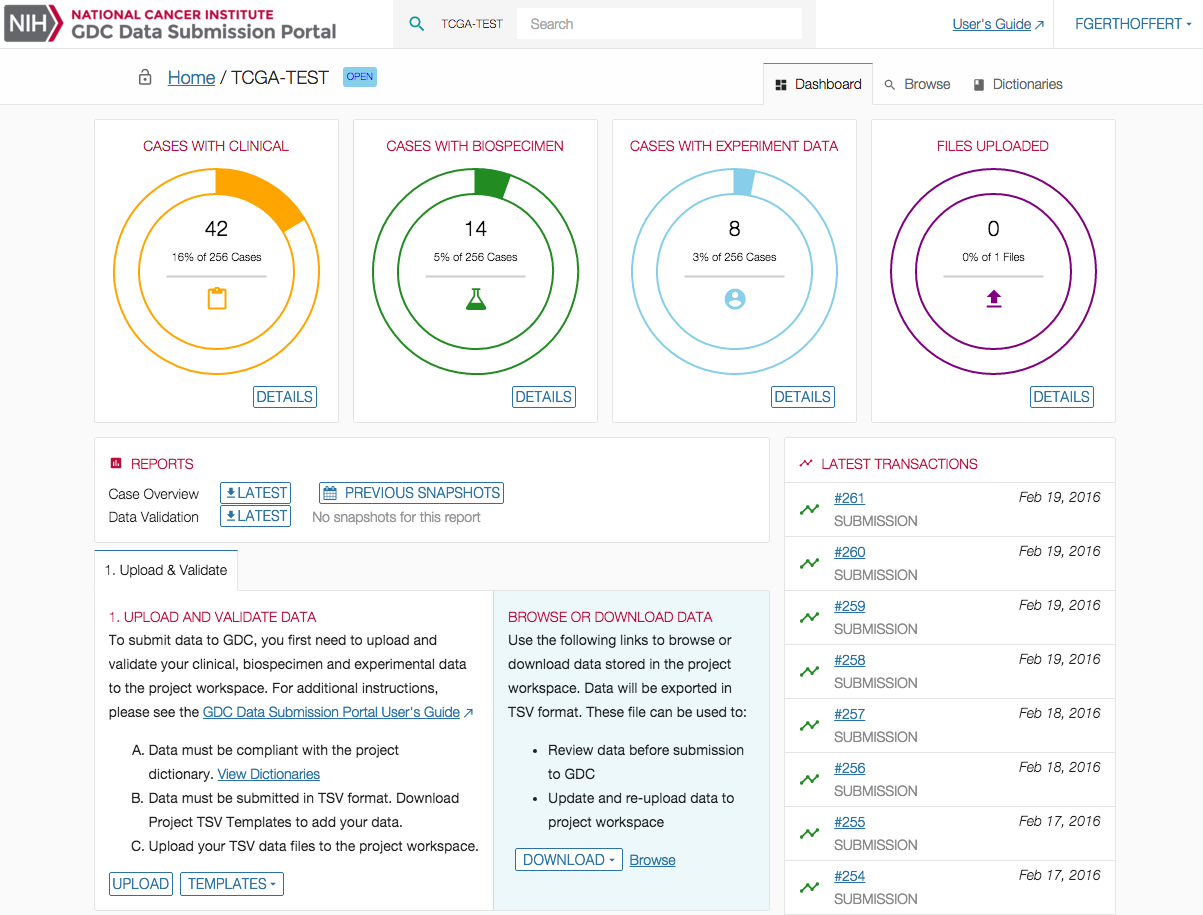
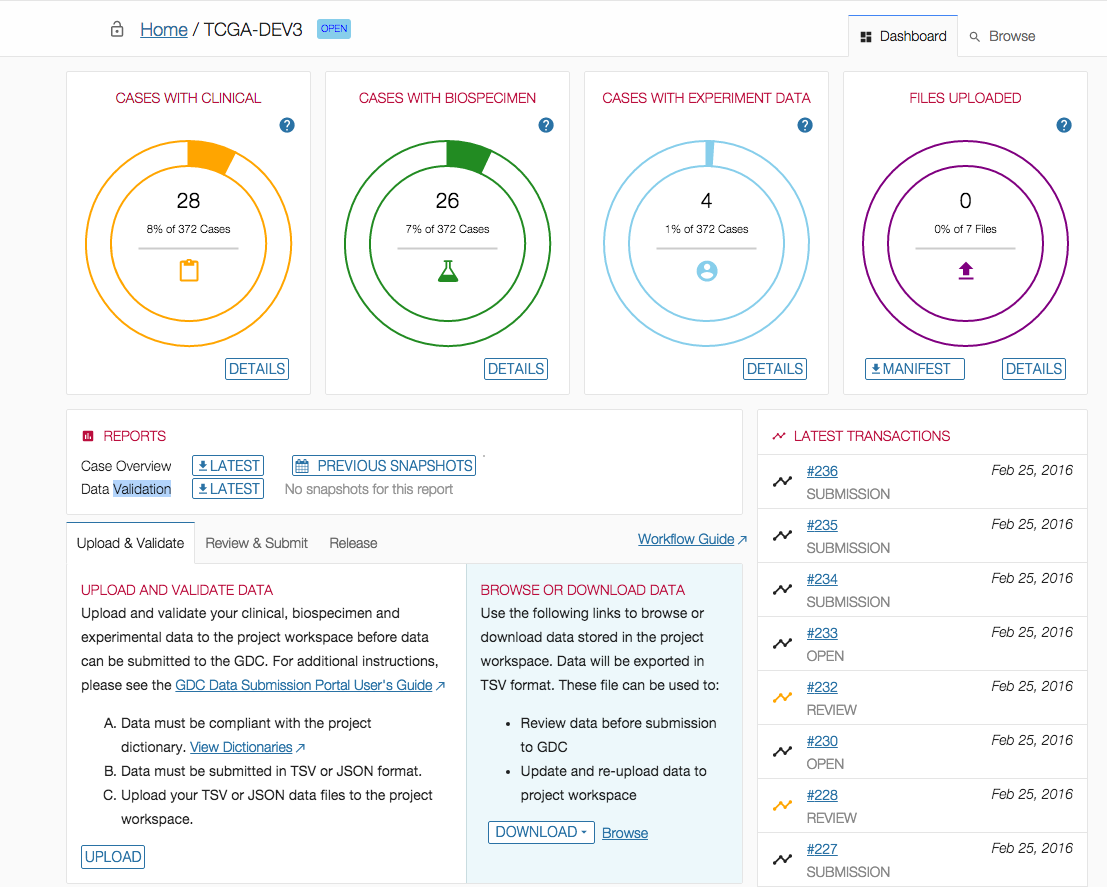
Updated Overview and Features

diff --git a/docs/Data_Submission_Portal/Users_Guide/Features.md b/docs/Data_Submission_Portal/Users_Guide/Features.md
@@ -2,39 +2,46 @@
 
 ## Sitemap
 
-[![GDC Data Submission Portal Sitemap](images/GDC_Submission_Portal_Sitemap.png)](images/GDC_Submission_Portal_Sitemap.png "Click to see the full image.")
+[![GDC Data Submission Portal Sitemap](images/GDC_Submission_Sitemap.png)](images/GDC_Submission_Sitemap.png "Click to see the full image.")
 
 The above image shows the GDC Data Submission Portal sitemap.
 
 ## Homepage
 
+[![GDC Data Submission Portal Homepage](images/GDC_Submission_Homepage.png)](images/GDC_Submission_Homepage.png "Click to see the full image.")
+
+The submitter should choose from the homepage in which project he would like to work.
+
+The report section in the homepage will provide reports on all the projects the user has access to.
+
+
 ## Dashboard
 
-The Portal comprises different sections available through a toolbar on the upper level of the page and a navigation panel on the left-hand side of the page.
 
-[![GDC Data Submission Toolbar](images/GDC_Submission_Toolbar.png)](images/GDC_Submission_Toolbar.png "Click to see the full image.")
+[![GDC Data Submission Portal Toolbar](images/GDC_Submission_Dashboard.png)](images/GDC_Submission_Dashboard.png "Click to see the full image.")
 
-The top toolbar provides access to the following elements:
+The dashboard provides a quick access to all the actions a submitter or project owner can do:
 
-* __GDC Identifying Image__: Clicking on GDC identifying image will redirect to the submission dashboard.
-* __Search__: A context-sensitive search provides a mechanism to search through different pages.
-* __Profile__: The user profile icon provides access to the token and to a logout feature.
-
-## Layout
-
-[![GDC Data Submission Portal Layout](images/GDC_Submission_Portal_Layout.png)](images/GDC_Submission_Portal_Layout.png "Click to see the full image.")
-
-The GDC Data Submission Portal main window, visible when navigating through the GDC Data Submission Portal, has been divided into three separate panels:
-
-* __Navigation panel__: A panel composed of links to different sections of the application.
-* __List panel__: A table listing items corresponding to the current selection.
-* __Details panel__: Details and previous activities related to a particular entity selected in the results panel.
-
-[![GDC Data Submission Portal Results Panel](images/GDC_Submission_Results_Panel.png)](images/GDC_Submission_Results_Panel.png "Click to see the full image.")
+* __Charts__: Provides information on the content of project data (e.g. 42 regitered cases in this project have clinical data).
+* __Reports__: Provides report on the project (e.g. Case Overview Report).
+* __Actions__: Provides the list of actions the user can perform as part of the submission process. This list varies depending on the user's privileges.
+* __Latest Transactions__: Displays the latest transactions on the project.
+* __Browse__: Link to Browse menu (see next section).
 
 ## Browse
 
-###Navigation Panel
+### Layout
+
+[![GDC Data Submission Portal Layout](images/GDC_Submission_Portal_Layout.png)](images/GDC_Submission_Portal_Layout.png "Click to see the full image.")
+
+The GDC Data Submission Portal Browse menu, has been divided into three separate panels:
+
+* __Navigation panel__: A panel composed of links to different filtered items.
+* __Summary panel__: A table listing items corresponding to the current selection.
+* __Details panel__: Details and previous activities related to a particular entity selected in the results panel.
+
+
+### Navigation Panel
 
 [![GDC Data Submission Portal Navigation Panel](images/GDC_Submission_Navigation.png)](images/GDC_Submission_Navigation.png "Click to see the full image.")
 
@@ -62,7 +69,7 @@ The third panel, on the right-hand side of the page, provides more details about
 
 The exact content of those sub-sections depends on the type of entity (e.g. case, sample, transaction) of the selection in the navigation panel.
 
-[![Detail Panel](images/GDC_Submission_Details_Panel.png)](images/GDC_Submission_Details_Panel.png "Click to see the full image.")
+[![Browse Detail Panel](images/GDC_Submission_Details_Panel.png)](images/GDC_Submission_Details_Panel.png "Click to see the full image.")
 
 The Transactions section shows all past transactions associated with an entity, clicking on a transaction will redirect the user to this particular transaction.
 
@@ -70,4 +77,4 @@ The Transactions section shows all past transactions associated with an entity, 
 
 The quick search menu available at the top of the screen will provide the ability to find your entity in the Browse menu. Type the entity ID, the GDC will provide an autocomplete feature.
 
-[![Quick Search](images/GDC_Submission_Quick_Search.png)](images/GDC_Submission_Quick_Search.png "Click to see the full image.")
+[![GDC Submission Portal Quick Search](images/GDC_Submission_Quick_Search.png)](images/GDC_Submission_Quick_Search.png "Click to see the full image.")
